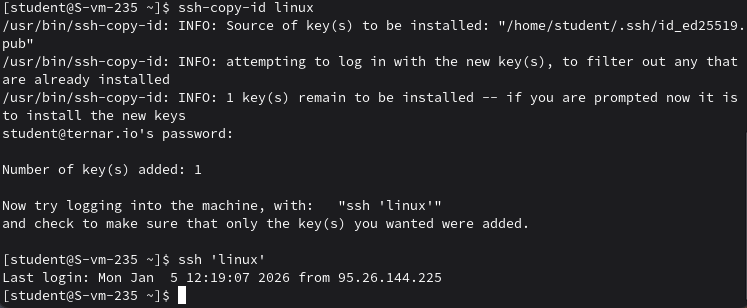
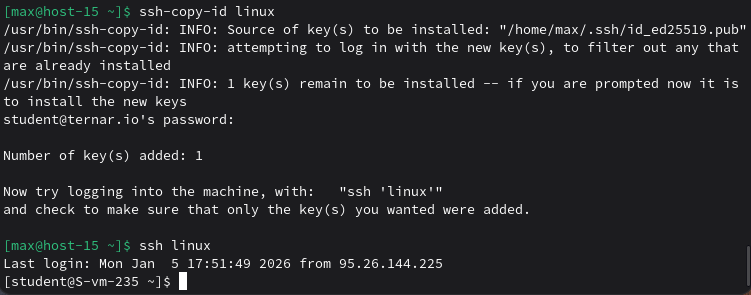
1-9

diff --git a/9-Firewall/task1.md b/9-Firewall/task1.md
@@ -1,15 +1,41 @@
 
 # Открываем iptables
 
-1. Установите iptables
-2. Проверьте осталась ли возможность подключения по ssh к вашему серверу
-3. Почему может пропасть такая возможность?
-4. Откройте нужный порт на сервере чтобы восстановить подключение
-5. Это будет udp или tcp прот?
+## 1. Установите iptables
+```
+sudo apt-get update
+sudo apt-get install iptables
+```
+## 2. Проверьте осталась ли возможность подключения по ssh к вашему серверу
+Да, осталась
 
+## 3. Почему может пропасть такая возможность?
+Она может пропасть если установлена политика по умолчанию в INPUT как DROP или REJECT без исключения для SSH.
+
+## 4. Откройте нужный порт на сервере чтобы восстановить подключение
+`sudo iptables -A INPUT -p tcp --dport 235 -j ACCEPT`
+
+- `-A INPUT` – это правило для ВХОДЯЩИХ подключений
+- `-p tcp` – протокол TCP
+- `--dport 214` – порт назначения
+- `-j ACCEPT` – принимать входящий пакет 
+
+## 5. Это будет udp или tcp прот?
+SSH использует протокол TCP.
 # Сохраняем
 
-6. Сохраняются ли записанные вами правила после перезагрузки?
-7. Как их сохранить?
+## 6. Сохраняются ли записанные вами правила после перезагрузки?
+Нет, по умолчанию — не сохраняются.
+iptables хранит правила только в памяти ядра. При перезагрузке они сбрасываются.
+
+## 7. Как их сохранить?
+Сохранить текущие правила в файл через iptables-save:
+
+`sudo sh -c 'iptables-save > /etc/sysconfig/iptables'`
+
+
+И включаем это правило, чтобы была их загрузка при старте системы:
+
+`sudo systemctl enable --now iptables`
 
 При работе с firewall не рекомендую отключаться от текущей сессии ssh. Лучше подключаться из другой консольки.

diff --git a/9-Firewall/task2.md b/9-Firewall/task2.md
@@ -1,14 +1,33 @@
 # Открываем firewald
 
-1. Удалите iptables и установите firewalld
-2. Попробуйте так-же проверить возможность подключения по ssh
-3. Если её нет то откройте порт
-4. Выведите список открытых портов с помощью firewall-cmd
-5. Можно ли там добавить порты по названию сервиса?
+## 1. Удалите iptables и установите firewalld
+```
+sudo /sbin/service iptables stop
+sudo chkconfig iptables off
+sudo apt-get install firewalld -y
+sudo systemctl enable --now firewalld
+```
+## 2. Попробуйте так-же проверить возможность подключения по ssh
+![img.png](images/1.png)
 
-6. На вашей Локальной виртуальной машине попробуйте подключиться к серверу samba из предыдущих заданий
-7. Если не получилось то откройте нужные порты
+Возможность осталась.
 
-9. Сделайте так чтобы изменения были постоянными
+## 3. Если её нет то откройте порт
+![img.png](images/2.png)
 
+## 4. Выведите список открытых портов с помощью firewall-cmd
+![img.png](images/3.png)
+
+## 5. Можно ли там добавить порты по названию сервиса?
+Да, можно добавлять сервисы по названию, например ssh, http, samba.
+
+`firewall-cmd --add-service=ssh`
+
+## 6. На вашей Локальной виртуальной машине попробуйте подключиться к серверу samba из предыдущих заданий
+![img.png](images/4.png)
+
+## 7. Если не получилось то откройте нужные порты
+
+## 9. Сделайте так чтобы изменения были постоянными
+![img.png](images/5.png)
 
